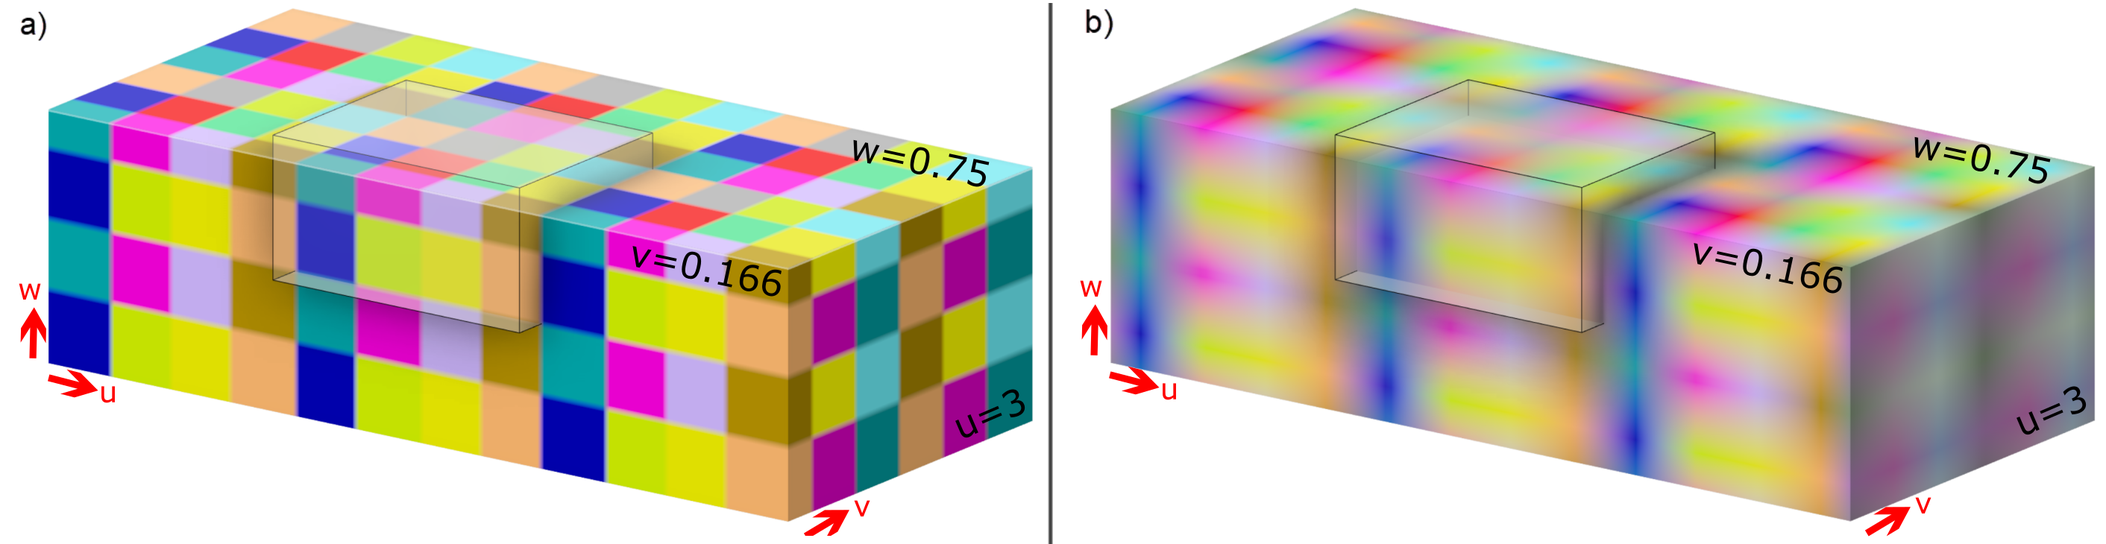
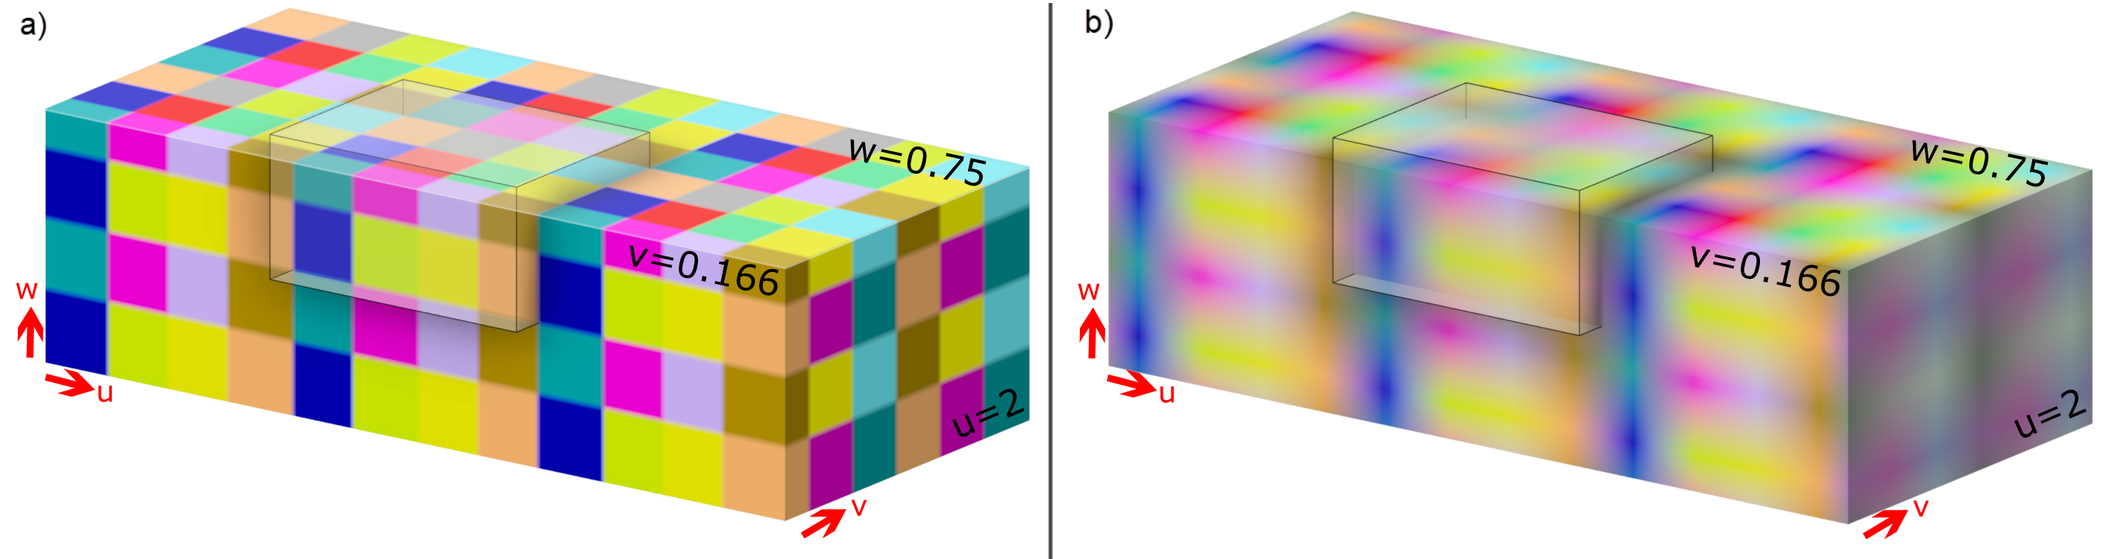
Update Figure 5-2 and fix typos

diff --git a/3MF Volumetric Extension.md b/3MF Volumetric Extension.md
@@ -11,7 +11,7 @@
 
 **Note**
 
-This version of the 3MF Volumetric Extension is a pre-release version. Consumers and producers can implement this version and use it, however, future version of this sepcification, in particular the "Published" version, might not be backwards compatible to this version.
+This version of the 3MF Volumetric Extension is a pre-release version. Consumers and producers can implement this version and use it, however, future version of this specification, in particular the "Published" version, might not be backwards compatible to this version.
 
 
 ## Table of Contents
@@ -50,20 +50,20 @@ Part II, "Appendices," contains additional technical details and schemas too ext
 
 The information contained in this specification is subject to change. Every effort has been made to ensure its accuracy at the time of publication.
 
-This extension MUST be used only with Core specification 1.3. or higher.
+This extension MUST be used only with Core specification version 1.3. or higher.
 
 
 ## 1.2. Introduction
 Volumetric Modeling is an efficient approach to encode geometrical shapes and spatial properties and is based on a volumetric description.
 Traditional, explicit modeling methodologies are based on surfaces (e.g. NURBS, triangular meshes) that describe the boundaries of an object. This is illustrated in Figure 1-1 a): a NURBS surface delimitates a region of space. Figure 1-1 b) shows a triangular mesh that describes the same surface. In each case, the top part of the described object is being shown transparently to allow viewing the "inside" of the described object.
 
-The volumetric modeling approach relies on a mathematical, field based description of the whole volume of the object. This is illustrated in Figure 1-1 c). Every point in space has a scalar (gray-scale) value. The iso-surface at value 0 describes the surface of the same object as in Figure 1-1 a). A section of this iso-surface is indicated by the blue line.
+The volumetric modeling approach relies on a mathematical, field based description of the whole volume of the object. This is illustrated in Figure 1-1 c). Every point in space has a scalar (grey-scale) value. The iso-surface at value 0 describes the surface of the same object as in Figure 1-1 a). A section of this iso-surface is indicated by the blue line.
 
-The true advantage of volumetric modeling shows when properties of an object vary in space gradually, e.g. color or material-distribution and -composition of an object vary in space. E.g. in Figure 1-2 a) the object has a uniform color except for red stripe at the fron left surface. Note that not only the surface, but also the interior volume has a non-uniform color in this region. Figure 1-2 b) shows a a distribution of three different materials, indicated by three different colors, red, blue and green.
+The true advantage of volumetric modeling shows when properties of an object vary in space gradually, e.g. color or material-distribution and -composition of an object vary in space. E.g. in Figure 1-2 a) the object has a uniform color except for red stripe at the from left surface. Note that not only the surface, but also the interior volume has a non-uniform color in this region. Figure 1-2 b) shows a a distribution of three different materials, indicated by three different colors, red, blue and green.
 
 This is only a brief illustration of the volumetric modeling approach to geometric design and more information can be found in [references](#references) \[1\] and \[2\].
 
-_Figure 1-1. Explicit vs. implicit representation_
+_Figure 1-1. Explicit (a) and (b) vs. implicit (c) representation_
 ![Explicit vs. implicit representation](images/explicit_vs_implicit.png)
 
 _Figure 1-2. Spatially varying properties_
@@ -91,11 +91,11 @@ _Figure 1-1 Overview of model XML structure of 3MF with volumetric additions_
 
 This document describes new elements, each of which is OPTIONAL for producers, but MUST be supported by consumers that specify support for this volumetric extension of 3MF.
 
-The central idea of this extension is to enrich the geometry notion of 3MF with volumetic elements that can represent spatially varying properties which are quite inefficient to handle with a mesh representation, especially in cases where the variation is continuous in space.
+The central idea of this extension is to enrich the geometry notion of 3MF with volumetric elements that can represent spatially varying properties which are quite inefficient to handle with a mesh representation, especially in cases where the variation is continuous in space.
 
-This extension is meant to be an exact specification of geometric, appearance, material and in fact arbitary properties, and consumers MUST interpret it as such. However, the intent is also to enable editors of 3MF files to use the data structures for efficient interoperability and post processing the geometry and properties described in this extension.
+This extension is meant to be an exact specification of geometric, appearance, material and in fact arbitrary properties, and consumers MUST interpret it as such. However, the intent is also to enable editors of 3MF files to use the data structures for efficient interoperability and post-processing the geometry and properties described in this extension.
 
-A producer using the boundary element of the volumetric specification MUST mark the extension as required, as described in the core specification. Producers only using the other specification elements, in particular color-, composite- and property-elements, MAY mark the extension as required. Consumers of 3MF files that do not mark the volumetric extension as required are thus assured that the geometric shape of objects in this 3MF file are not altered by the volmetric specification.
+A producer using the boundary element of the volumetric specification MUST mark the extension as required, as described in the core specification. Producers only using the other specification elements, in particular color-, composite- and property-elements, MAY mark the extension as required. Consumers of 3MF files that do not mark the volumetric extension as required are thus assured that the geometric shape of objects in this 3MF file are not altered by the volumetric specification.
 
 
 # Chapter 2. 3D Image
@@ -116,11 +116,11 @@ Element **\<image3d>**
 
 Volumetric data can be encoded as 3d images that consist of voxels. Each \<image3d> element is assumed to represent a unit cube from which data can be sampled at any point. Volumetric images can be embedded inside a 3MF file using groups of PNG images that represent a stack of images.
 
-All image3dsheets within an image3d MUST have the same number of rows and columns that is specified in the rowcount and columncount-attributes, respecitvely. rowcount, columncount and sheetcount MUST not exceed 1024^3, each. The total number of voxels MUST be limited by 1024^5. There MUST be exactly sheetcount \<image3dsheet>-elements under \<image3d> that are implicitly ordered starting with index 0.
+All image3dsheets within an image3d MUST have the same number of rows and columns that is specified in the rowcount and columncount-attributes, respectively. rowcount, columncount and sheetcount MUST not exceed 1024^3, each. The total number of voxels MUST be limited by 1024^5. There MUST be exactly sheetcount \<image3dsheet>-elements under \<image3d> that are implicitly ordered starting with index 0.
 
-Image3D objects, and thus the underlying \<image3dsheet> elements, MUST follow one of the input pixel layouts shown in the table below. All image3dsheets within an image3d MUST have the same input pixel layouts, and each channel MUST have the same bit-depth accross all image3dsheets.
+Image3D objects, and thus the underlying \<image3dsheet> elements, MUST follow one of the input pixel layouts shown in the table below. All image3dsheets within an image3d MUST have the same input pixel layouts, and each channel MUST have the same bit-depth across all image3dsheets.
 
-The following table shows the logical interpretation of sampling the "R", "G", "B" or "A"-channel depending on the input pixel layouts. The meaning of symbols is as follows: R – red, G – green, B – blue, A – alpha, Y – grayscale.
+The following table shows the logical interpretation of sampling the "R", "G", "B" or "A"-channel depending on the input pixel layouts. The meaning of symbols is as follows: R – red, G – green, B – blue, A – alpha, Y – greyscale.
 
 | Input pixel layout | | | | | |
 | --- | --- | --- | --- | --- | --- |
@@ -129,14 +129,14 @@ The following table shows the logical interpretation of sampling the "R", "G", "
 | YA | Y | Y | Y | A |
 | Y | Y | Y | Y | 2^bitdepth-1 |
 
-For example, if the specification says that a certain value is sampled from the image’s R channel, but the referenced image is only monochromatic then grayscale channel is interpreted as the R color channel. Similarly, color values sampled from a monochromatic image are interpreted as if all R, G, B color channels shared the same grayscale value. If there is no alpha channel present in the image, the highest possible value `2^bitdepth-1` MUST be used.
+For example, if the specification says that a certain value is sampled from the image’s R channel, but the referenced image is only monochromatic, then the greyscale channel is interpreted as the R color channel. Similarly, color values sampled from a monochromatic image are interpreted as if all R, G, B color channels shared the same greyscale value. If there is no alpha channel present in the image, the highest possible value `2^bitdepth-1` MUST be used.
 
-The \<image3d>-element defines a voxel grid of values (e.g. RGB, Grey-Alpha, Grey) values distributed in a cuboid ({0,1,...,rowcount-1] x {0,1,...,columncount-1] x [0,1,...,sheetcount-1]). The left-front-bottom corner of this grid corresponds to the (0,0,0)-UVW coordinate when this 3D Image is being sampled, whereas the right-back-top corner corresponds to the (1,1,1) UVW-coordinate. Each \<image3dsheet> corresponds to one PNG-file in the package. Figure 2-1 a) illustrates a voxel grid with `rowcount=3`, `columncount=4` and `sheetcount=2` voxels. Voxel coordinates are indicated as bold black triple, the UVW-coordinate values as red triples.
+The \<image3d>-element defines a voxel grid of values (e.g. RGB, grey-Alpha, grey) values distributed in a cuboid ({0,1,...,rowcount-1] x {0,1,...,columncount-1] x [0,1,...,sheetcount-1]). The left-front-bottom corner of this grid corresponds to the (0,0,0)-UVW coordinate when this 3D Image is being sampled, whereas the right-back-top corner corresponds to the (1,1,1) UVW-coordinate. Each \<image3dsheet> corresponds to one PNG-file in the package. Figure 2-1 a) illustrates a voxel grid with `rowcount=3`, `columncount=4` and `sheetcount=2` voxels. Voxel coordinates are indicated as bold black triple, the UVW-coordinate values as red triples.
 Figure 2-1b) illustrates the voxel coordinates and the UVW-values throughout the first \<image3dsheet>, Figure 2-1 c) illustrates these quantities throughout the second \<image3dsheet>. A voxelcoordinate triple `(i,j,k)` corresponds to voxel with rowindex `i`, columnindex `j` and sheetindex `k`.
 
 The sampling rules for UVW values are determined by the filter-rule, see the filter attribute and the behaviour for UVW-values outside the unit-cube are determines by the tilestyle attribues [of the Channel from Image3D XML structure](#chapter-3-channel-from-3d-image), respectively.
 
-_Figure 2-1: Voxel coordinates and UVW-texture space of a sample voxel grid: a) shows a voxex grid of 3x4x2 voxels. b) shows a sectoin view of the bottom voxels, c) shows a section view of the top voxels. The orange voxel at the right, front and bottom of a) has rowindex=2, columnindex=3 and sheetindex=0._
+_Figure 2-1: Voxel coordinates and UVW-texture space of a sample voxel grid: a) shows a voxex grid of 3x4x2 voxels. b) shows a section view of the bottom voxels, c) shows a section view of the top voxels. The orange voxel at the right, front and bottom of a) has rowindex=2, columnindex=3 and sheetindex=0. d) shows the voxelcenters of this configuration._
 ![Voxel coordinates and UVW-texture space of a sample voxel grid](images/image3dcoordinates.png)
 
 ## 2.1.1 File Formats
@@ -146,7 +146,7 @@ The following describes recommendations for the channel bit depth of PNG images 
 
 - Color information, material mixing ratios and arbitrary properties can be deduced from PNG images with arbitrary channel depth. It is RECOMMENDED to store color into RGB-channels within a PNG.
 
-- It is RECOMMENDED to store image information that will be used as levelset-function to represent a boundary in PNGs with one channel only. A special case to encode this levelset information is to encode the distance of the surface of the object in this channel. A different option is to deduce the levelset-function from a channel with binary values, i.e. from images of image type "Greyscale" with bit-depth of 1 or an indexed-color with bit depths of 1.
+- It is RECOMMENDED to store image information that will be used as levelset-function to represent a boundary in PNGs with one channel only. A special case to encode this levelset information is to encode the distance of the surface of the object in this channel. A different option is to deduce the levelset-function from a channel with binary values, i.e. from images of image type "greyscale" with bit-depth of 1 or an indexed-color with bit depths of 1.
 
 To achieve high accuracy, producers SHOULD store such information in image channels with bit depth of 16. Most professional image editing tools an standard implementations of the PNG format support channels with 16 bit.
 
@@ -180,7 +180,7 @@ The `valueoffset` and `valuescale` determine how the numerical values of any cha
 If a channel in the image-file of this \<image3dsheet> holds a numerical value `V`, it needs to be sampled as `V' = V*valuescale + valueoffset`.
 Specifying different `valueoffset` and `valuescale`-attributes for different \<image3dsheet>s is optional, but allows producers to more efficiently encode values in different regions of an object.
 
-Any interpolation of values of an \<image3dsheet>-element (c.f. the [**filter** atribute on the Channel From Image3D](#chapter-3-channel-from-3d-image)) MUST be performed on the rescaled values `V'` according to the formula above. This is relevant if two subsequent \<image3dsheet>-elements have different values for `valueoffset` or `valuescale`.
+Any interpolation of values of an \<image3dsheet>-element (c.f. the [**filter** attribute on the Channel From Image3D](#chapter-3-channel-from-3d-image)) MUST be performed on the rescaled values `V'` according to the formula above. This is relevant if two subsequent \<image3dsheet>-elements have different values for `valueoffset` or `valuescale`.
 
 
 # Chapter 3. Channel from 3D Image
@@ -196,8 +196,8 @@ Element type
 | image3did | ST\_ResourceID | required | | Specifies the id of the 3d image resource |
 | channel | ST\_ChannelName | required | | Specifies which channel to reference in the 3d image resource |
 | transform | ST\_Matrix3D | required | | Transformation of the channel coordinate system into the \<image3d> coordinate system |
-| valueoffset | ST\_Number |  | 0.0 | Specifies a numerical offset for the values obtained from the `channel` within the `image3d` refered to by this CT_ChannelFromImage3D |
-| valuescale | ST\_Number | | 1.0 | Specifies a numerical scaling for the values obtained from the `channel` within the `image3d` refered to by this CT_ChannelFromImage3D. |
+| valueoffset | ST\_Number |  | 0.0 | Specifies a numerical offset for the values obtained from the `channel` within the `image3d` referred to by this CT_ChannelFromImage3D |
+| valuescale | ST\_Number | | 1.0 | Specifies a numerical scaling for the values obtained from the `channel` within the `image3d` referred to by this CT_ChannelFromImage3D. |
 | filter |ST\_Filter | | linear | "linear" or "nearest" neighbor interpolation |
 | tilestyleu | ST\_TileStyle | Required | | Determines the behavior of the sampler for texture coordinate u outside the [0,1] range |
 | tilestylev | ST\_TileStyle | Required | | Determines the behavior of the sampler for texture coordinate v outside the [0,1] range |
@@ -205,7 +205,7 @@ Element type
 
 Elements of type \<CT_ChannelFromImage3D> define the way in which individual channels from volumetric image resources can be referenced inside the volumetric layer elements. Each channel reference MUST contain a resource id that maps to an actual \<image3d> element.
 
-In addition, the elements of type \<CT_ChannelFromImage3D> MUST contain two string attributes which determine which channel to reference and how they should be mapped within the volumetric image. The srcchannel name string can use any of the reserved channel names (i.e. "R", "G", "B", or "A"). 
+In addition, the elements of type \<CT_ChannelFromImage3D> MUST contain a \<ST\_ChannelName> attribute which determines which channel to pick from the \<image3d> element. This attribute must be any of the reserved channel names (i.e. "R", "G", "B", or "A"). 
 
 **channel**:
 
@@ -246,7 +246,7 @@ The filter attribute defines the interpolation method used when a \<channelfromi
 
 - If the interpolation method of an elements of type \<channelfromimage3d> is "linear", sampling it at an arbitrary (u,v,w) returns the floating point defined by trilinearly interpolating between the eight closest points coordinates which transforms back to voxel centers in the 3D image resource.
 
-    _Figure 3-3: filter attributes "nearest" (a) and "linear" (b). The image3d of Figure 2-1 used is reused in this example. The region showns is clipped at w=0.75, v=1/6 and u=3. The grey box indicaes the UVW unit box. The tilesyle is "wrap" in all directions.
+    _Figure 3-3: filter attributes "nearest" (a) and "linear" (b). The image3d of Figure 2-1 used is reused in this example. The region shown is clipped at w=0.75, v=1/6 and u=2. The grey wireframe box indicates the UVW unit box. The tilesyle is "wrap" in all directions.
     ![Tilestyle mirror](images/filter.png)
 
 **`offsetvalue` and `scalevalue`**:
@@ -267,9 +267,9 @@ Element **\<volumetricstack>**
 The volumetric stack is a resource within a 3MF model that defines how volumetric data
 from multiple \<CT_ChannelFromImage3D> is composited to yield multiple custom scalar field in three dimensions (\<dstchannel>). This custom scalar field of a \<volumetricstack> element can then be used to define volumetric properties inside the \<volumedata>-element of an object, see the [volumedata-element](#chapter-5-volumetric-data).
 
-1. It defines multiple destination channels, \<dstchannel>-elements. Each destinaton channel is a scalar field in 3d, whose values can be retrieved by sampling this volumetricstack.
+1. It defines multiple destination channels, \<dstchannel>-elements. Each destination channel is a scalar field in 3d, whose values can be retrieved by sampling this volumetricstack.
 
-2. The sampled values of each destination channel are built up by blending multiple layers, the \<volumetriclayer>-elements. This allows e.g. boolean opeartions on the scalar fields provided by different \<channelfromimage3d> elements.
+2. The sampled values of each destination channel are built up by blending multiple layers, the \<volumetriclayer>-elements. This allows e.g. boolean operations on the scalar fields provided by different \<channelfromimage3d> elements.
 
 The volumetricstack element MUST contain at least one \<dstchannel> child element and MUST NOT contain more than 2^16-1 \<dstchannel> child-elements. The volumetricstack element MUST NOT contain more than 2^16-1 \<volumetriclayer> child-elements.
 
@@ -285,8 +285,7 @@ Element **\<dstchannel>**
 | background | ST\_Number | required | | Specifies the background value of this channel |
 
 A destination channel specifies a name of a channel that can be sampled from a volumetricstack element.
-The background value is the value that serves as a base for the blending that takes place in the volumetriclayer elements
-within the \<volumetricstack>-element.
+The background value is the value that serves as a base for the blending that takes place in the \<volumetriclayer> elements within the \<volumetricstack>-element.
 
 The names of \<dstchannel>-elements must be unique within a \<volumetricstack>-element.
 
@@ -346,7 +345,7 @@ The name of each \<dstchannel> element MUST occur at most once as dstchannel att
 
 Destination channels that are not mentioned as dstchannel attribute in this list are not modifed by this \<volumetriclayer>.
 
-_Figure 4-1: tilestyle clamp_
+_Figure 4-1: Example of different blending methods and parameters and src- or dst-alpha values_
 ![Example of different blending methods and parameters and src- or dst-alpha values](images/blending.png)
 
 ## 4.3 Channelmapping element
@@ -384,8 +383,8 @@ The volumedata element can contain up to one \<boundary> child element, up to on
 up to one \<color> element, and an arbitray number of \<property> elements.
 
 The child elements modify the enclosing \<mesh> in two fundamentally different ways:
-1. the child \<boundary> element (if it exists) determines the geometry of the \<mesh object>.
-2. the other child elements modify color, material compostion and other arbitrary properties of the \<mesh object>.
+1. the child \<boundary> element (if it exists) determines the geometry of the \<mesh> object.
+2. the other child elements modify color, material compostion and other arbitrary properties of the \<mesh> object.
 
 We need to define the clipping surface of a mesh with a \<volumedata> element. The clipping surface is defined as follows:
 1. If no \<boundary> element exists, the clipping surface is defined by the surface of the enclosing \<mesh> element. This implicitly takes into account any geometry defined by e.g. the beamlattices specification.
@@ -441,9 +440,7 @@ The value of the leveselt function `f` at a position `(x,y,z)` and the solidthre
 
 The transformation of the object coordinate system into the \<volumetricstack> coordinate system.
 If the boundary-channel of the enclosing \<mesh> is being sampled at position `(x,y,z)` in the mesh's local object coordinate system, the referenced channel in the \<volumetricstack> must be sampled at position `(x',y',z') = T*(x,y,z)`.
-
-_Figure 5-2 Illustration of different coordinate systems in the sampling process_
-![Illustration of different coordinate systems in the sampling process](images/fig_coordinatesystems.png)
+See Figure 5-2 for an illustration of this transform in the sampling process.
 
 ### 5.2.2 Color element
 
@@ -529,8 +526,11 @@ If the sampled value of a channel is `<0` it must be evaluated as "0".
 
 Procuer MUST NOT create files where the sum of all values in it's child \<materialmapping>-elements is smaller than `10^-7`. If the total is smaller than this threshold, the mixing ratio is up to the consumer.
 
-- If we have N materials, then 
-Ratio of Material i at point X: value of channel i at point X / sum(all N channels at point X)
+- If there are `N` materials, then the
+ratio of Material `i` at point `X` is given by:
+   ```
+   value of channel i / sum(value of all N channels at point X)
+   ```
 
 Each element instance of \<CT\_MaterialMapping> MUST have an attribute "srcchannel" that
 references a destination channel from the \<volumetricstack> with id matching the volumetricstackid of the parent \<composite> element.
@@ -557,7 +557,7 @@ The transformation of the object coordinate system into the \<volumetricstack> c
 If the channel of a \<property>-element is being sampled at position `(x,y,z)` in the mesh's local object coordinate system, the referenced channel in the \<volumetricstack> must be sampled at position `(x',y',z') = T*(x,y,z)`.
 
 This specification does not provide qualified names for such properties as part of the standard volumetric namespace.
-A later extension of the 3MF format might define such qualified names as part of a different extension specification or a later version of the volumetric extension specification. Producers that want to specify such properties now, SHOULD define a qualified name that can e.g. be called ="http://www.vendorwwebsite.com/3mf/vendor13mfextension/2021/05">.
+A later extension of the 3MF format might define such qualified names as part of a different extension specification or a later version of the volumetric extension specification. Producers that want to specify such properties now, SHOULD define a qualified name that can e.g. be called "http://www.vendorwwebsite.com/3mf/vendor13mfextension/2021/05".
 The specifications of private namespaces (that are not ratified by the 3MF Consortium) need to be negotiated between producer and consumer of a 3MF file.
 
 The names of \<property>-elements MUST be unique within a \<volumedata>. This name MUST be prefixed with a valid XML namespace name declared on the <model> element.
@@ -569,6 +569,27 @@ If a physical unit is necessary the namespace owner MUST define a unique and una
 
 If a \<property> is marked as `required`, and a consumer does not support it, it MUST warn the user or the appropriate upstream processes that it cannot process all contents in this 3MF document instance.
 Producers of 3MF files MUST mark all volumetric \<properties> required to represent the design intent of a model as `required`.
+
+__Note__:
+
+Equipped with the language elements of this specification, one can recapitulate the core concepts with an overview of the sampling process.
+
+Figure 5-2 illustrates the 3MF elements, the different coordinate systems and transforms between them when a volume data element (in this case \<color>) is sampled in the object coordinate space.
+
+Figure 5-2a) The object is sampled at position (+) in the object coordinate system. The clipping surface is hinted at with a wireframe. The transformation `T0` of the world coordinate system into the object coordinate system is given by the `transform`-attributes on the `item` and `component`-elements in the path that leads to this object in the `build`-hierarchy (see https://github.com/3MFConsortium/spec_core/blob/1.3.0/3MF%20Core%20Specification.md#3431-item-element and https://github.com/3MFConsortium/spec_core/blob/1.3.0/3MF%20Core%20Specification.md#421-component).
+
+Figure 5-2b) Offers a view into the \<volumetricstack> and its corresponding coordinate system. The transformation `T1` from object coordinate space to \<volumetricstack> coordinate system is given by the `transform`-element in the \<color>-element. The original clipping surface from a) is only shown for illustration porpuses. It does note exist in the \<volumetricstack> context.
+The value sampled from the \<volumetricstack> element might be the result of blending multiple \<volumetriclayer>s in this stack, see Figure 4-1.
+
+Figure 5-2c) Shows the \<volumetricstack> again. The unit box of the UVW coordinate system is shown as a wireframe. The transformation `T2` between \<volumetricstack> coordinate system and UVW space is given according to the `transform`-attribute of the \<channelfromimage3d> element in each \<volumetriclayer> of this \<volumetricstack>.
+
+Figure 5-3d) Shows the UVW coordinate space and where the sampling point maps to, and the UVW-loctions to which the voxel centers of the \<image3d>-element map.
+
+Figure 5-3e) illustrates where the sampling point (+) ends up in the the voxel coordinate space. The mapping of UVW to voxel coordinates in the \<image3d>-element is described in [Chapter 2. 3D Image](#chapter-2-3d-image).
+
+_Figure 5-2 Illustration of the different coordinate systems and 3MF elements in the sampling process. a) the object to be sampled at position (+). b) A view into the \<volumetricstack>. The original clipping surface from a) is only shown for illustration porpuses. c) Shows the \<volumetricstack> again. The unit box of the UVW coordinate system is shown as a wireframe. d) The UVW coordinate space and and the UVW-locations to which the voxel-centers map. e) The sampling point (+) in the voxel coordinate space._
+![Illustration of different coordinate systems in the sampling process](images/fig_coordinatesystems.png)
+
 
 
 # Part II. Appendices
